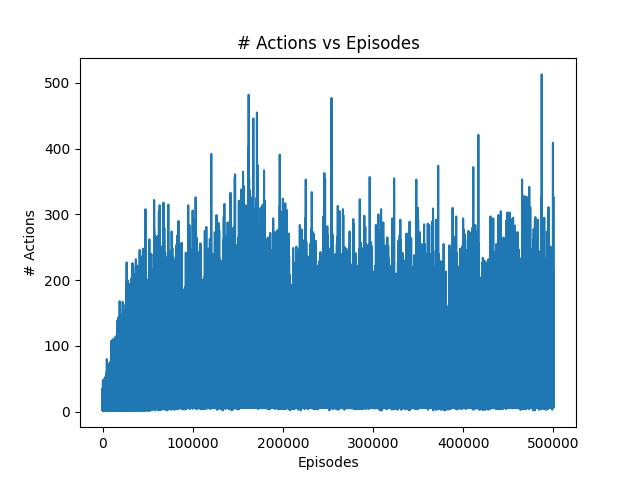
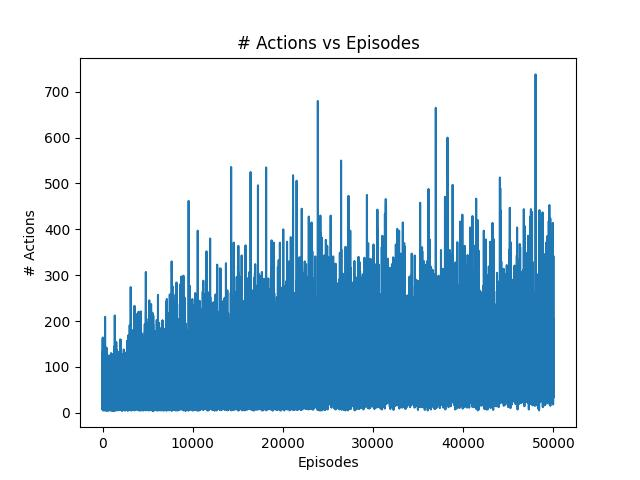
Q-learning feito

diff --git a/src/part_03/FrozenLake.py b/src/part_03/FrozenLake.py
@@ -8,14 +8,14 @@ warnings.simplefilter("ignore")
 
 # exemplo de ambiente nao determinístico
 # env = gym.make('FrozenLake-v1', render_mode='ansi').env
-env = gym.make('FrozenLake-v1', render_mode='human').env
+env = gym.make('FrozenLake-v1', map_name="8x8", render_mode='ansi').env
 
 # only execute the following lines if you want to create a new q-table
-qlearn = QLearning(env, alpha=0.2, gamma=0.95, epsilon=0.8, epsilon_min=0.0001, epsilon_dec=0.9999, episodes=50000)
-q_table = qlearn.train('data/q-table-frozen-lake-qlearning.csv','results/frozen_lake_qlearning')
-# q_table = loadtxt('data/q-table-frozen-lake-qlearning.csv', delimiter=',')
+# qlearn = QLearning(env, alpha=0.2, gamma=0.99, epsilon=1, epsilon_min=0.0000001, epsilon_dec=0.9999, episodes=50000)
+# q_table = qlearn.train('data/q-table-frozen-lake-qlearning.csv','results/frozen_lake_qlearning')
+q_table = loadtxt('data/q-table-frozen-lake-qlearning.csv', delimiter=',')
 
-env = gym.make('FrozenLake-v1', render_mode='human').env
+env = gym.make('FrozenLake-v1', map_name="8x8", render_mode='human').env
 
 (state, _) = env.reset()
 epochs = 0

diff --git a/src/part_03/FrozenLakeSarsa.py b/src/part_03/FrozenLakeSarsa.py
@@ -10,9 +10,9 @@ warnings.simplefilter("ignore")
 env = gym.make('FrozenLake-v1', map_name="8x8", render_mode='ansi').env
 
 # only execute the following lines if you want to create a new q-table
-qlearn = Sarsa(env, alpha=0.6, gamma=0.99, epsilon=1, epsilon_min=0.000005, epsilon_dec=0.9999, episodes=50000)
-q_table = qlearn.train('data/q-table-frozen-lake-sarsa.csv','results/frozen_lake_sarsa')
-# q_table = loadtxt('data/q-table-frozen-lake-sarsa.csv', delimiter=',')
+# qlearn = Sarsa(env, alpha=0.6, gamma=0.99, epsilon=1, epsilon_min=0.000005, epsilon_dec=0.9999, episodes=50000)
+# q_table = qlearn.train('data/q-table-frozen-lake-sarsa.csv','results/frozen_lake_sarsa')
+q_table = loadtxt('data/q-table-frozen-lake-sarsa.csv', delimiter=',')
 
 env = gym.make('FrozenLake-v1', map_name="8x8", render_mode='human').env
 # desc=["SHFF", "FFHH", "HFFH", "FHFG"]

diff --git a/src/part_03/QLearning.py b/src/part_03/QLearning.py
@@ -52,7 +52,7 @@ class QLearning:
                 rewards=rewards+reward
 
             actions_per_episode.append(actions)
-            if i % 1 == 0:
+            if i % 100 == 0:
                 sys.stdout.write("Episodes: " + str(i) +'\r')
                 sys.stdout.flush()
             
